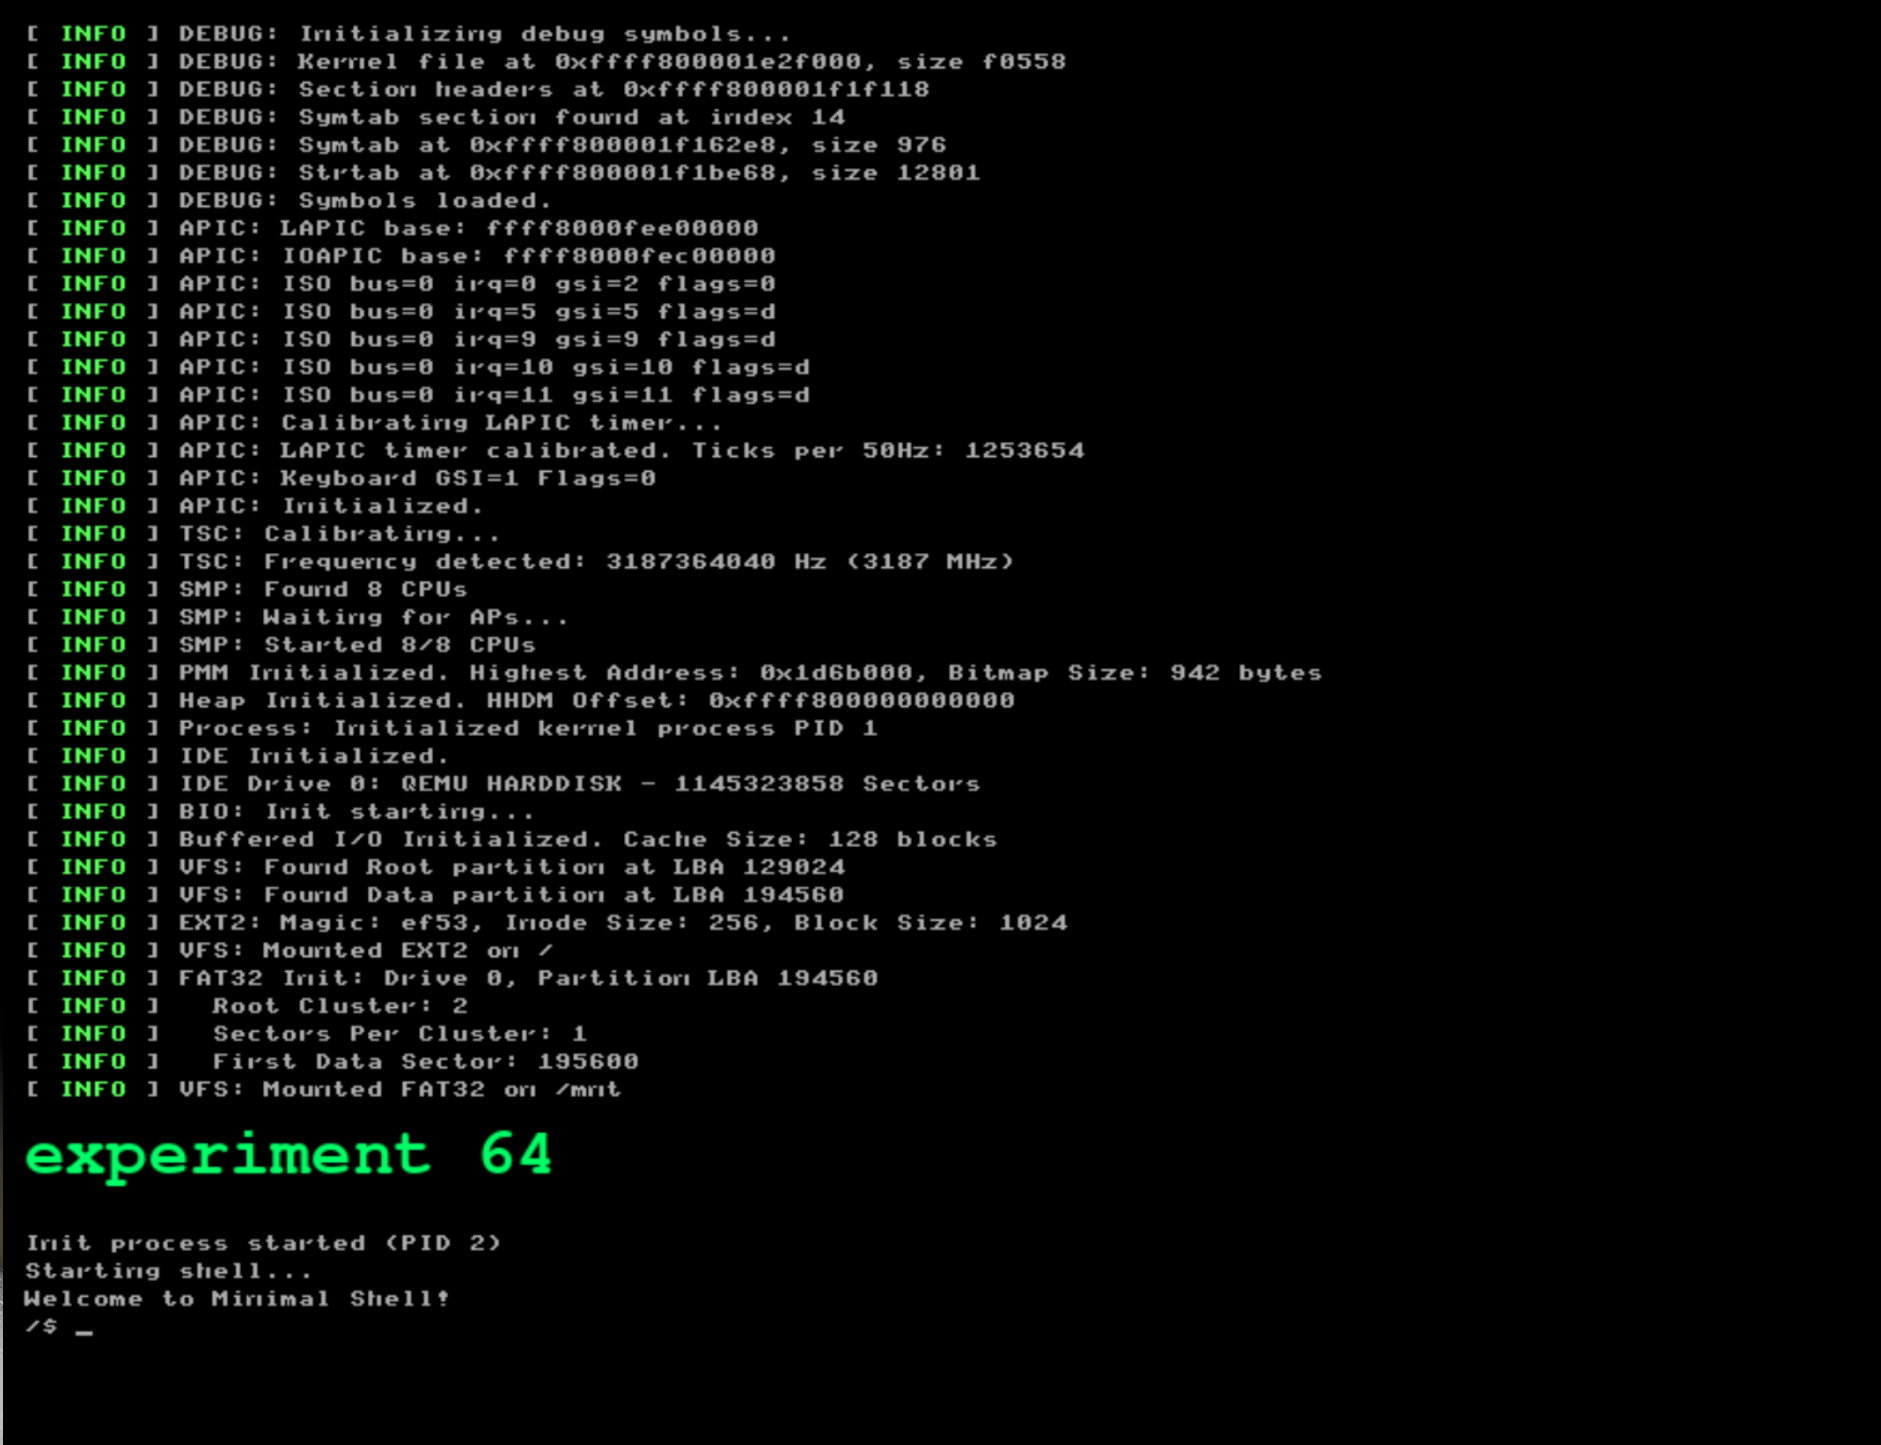
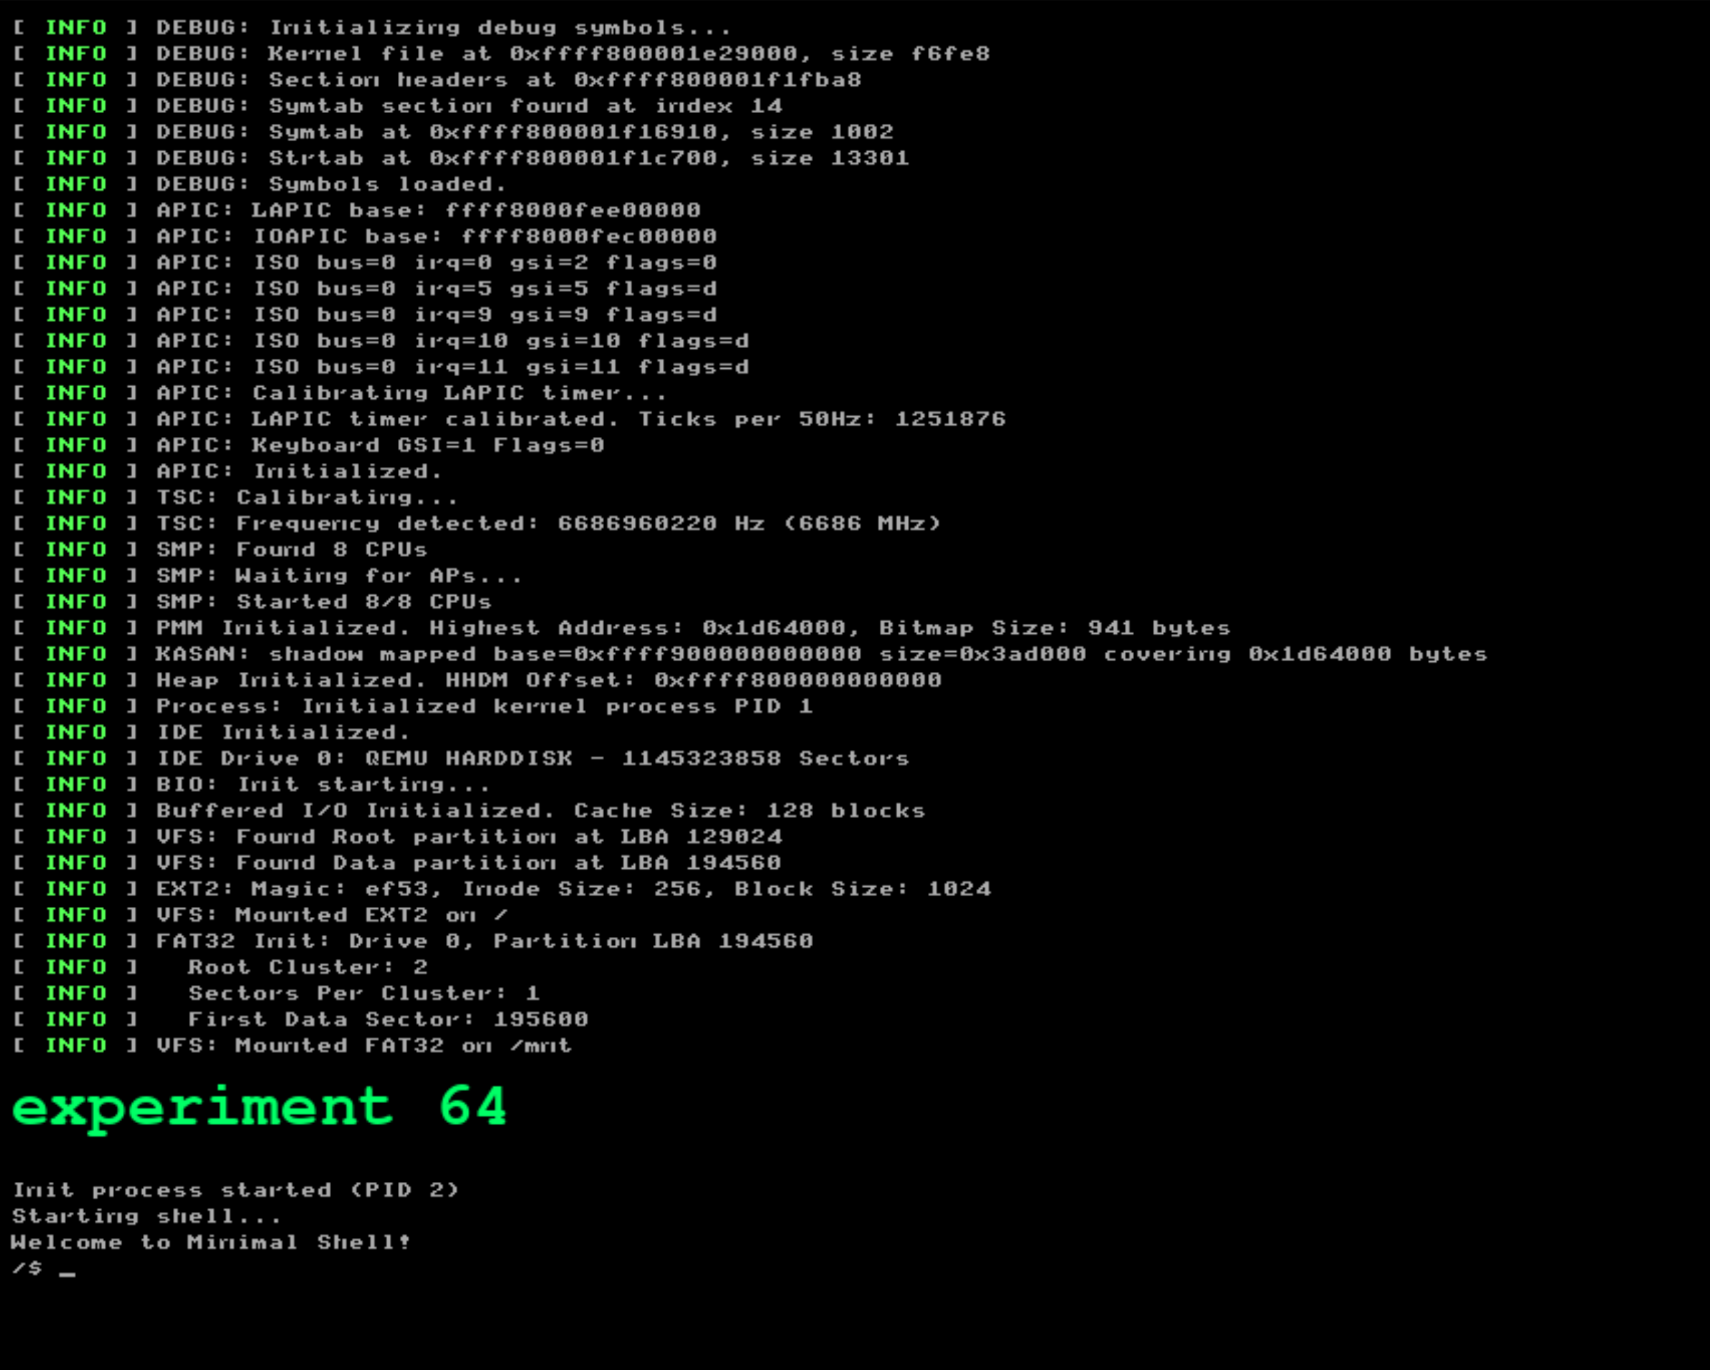
Enable KASAN support in Makefile and enhance user buffer handling in syscall.c

Changed region(s): [[0.0, 0.0, 0.8678, 0.8277], [0.0, 0.8584, 0.2789, 0.9504]]

diff --git a/kernel/arch/x86_64/syscall.c b/kernel/arch/x86_64/syscall.c
@@ -9,7 +9,11 @@
 #include "keyboard.h"
 #include "uart.h"
 #include <limits.h>
+#include <stdbool.h>
+#include <stdint.h>
 #include "kasan.h"
+#include "string.h"
+#include "heap.h"
 
 static int clamp_size_to_int(size_t value)
 {
@@ -24,9 +28,47 @@ static int clamp_u64_to_int(uint64_t value)
         return INT_MAX;
     return (int)value;
 }
-#include "string.h"
-#include "heap.h"
-#include <stdint.h>
+
+static bool prepare_user_buffer(void *addr, size_t size, bool is_write)
+{
+    (void)is_write;
+    if (!addr || size == 0)
+        return true;
+#ifdef KASAN
+    if (kasan_is_ready())
+    {
+        if (is_write)
+        {
+            kasan_unpoison_range(addr, size);
+        }
+        else if (!kasan_check_range(addr, size, false, __builtin_return_address(0)))
+        {
+            return false;
+        }
+    }
+#endif
+    return true;
+}
+
+static bool copy_to_user(void *dst, const void *src, size_t size)
+{
+    if (!dst || !src)
+        return false;
+    if (!prepare_user_buffer(dst, size, true))
+        return false;
+    memcpy(dst, src, size);
+    return true;
+}
+
+static bool __attribute__((unused)) copy_from_user(void *dst, const void *src, size_t size)
+{
+    if (!dst || !src)
+        return false;
+    if (!prepare_user_buffer((void *)src, size, false))
+        return false;
+    memcpy(dst, src, size);
+    return true;
+}
 
 #ifdef TEST_MODE
 volatile uint64_t test_syscall_count = 0;
@@ -237,6 +279,9 @@ void syscall_set_exit_hook(void (*hook)(int))
 
 int sys_write(int fd, const char *buf, size_t count)
 {
+    if (!prepare_user_buffer((void *)buf, count, false))
+        return -1;
+
     if (fd == 1 || fd == 2) // stdout or stderr
     {
         terminal_write(buf, count);
@@ -258,7 +303,7 @@ void sys_exit(int code)
     {
         exit_hook(code);
     }
-    printk("Process %d exited with code %d\n", current_process->pid, code);
+    // printk("Process %d exited with code %d\n", current_process->pid, code);
     current_process->exit_code = code;
     current_process->terminated = true;
     current_thread->state = THREAD_TERMINATED;
@@ -347,12 +392,12 @@ int sys_spawn(const char *path)
 
 int sys_fork(struct syscall_regs *regs)
 {
-    // 1. Copy Address Space
+    // Copy Address Space
     pml4_t child_pml4 = vmm_copy_pml4(current_process->pml4);
     if (!child_pml4)
         return -1;
 
-    // 2. Create Process
+    // Create Process
     process_t *child_proc = process_create(current_process->name);
     if (!child_proc)
         return -1;
@@ -362,12 +407,12 @@ int sys_fork(struct syscall_regs *regs)
 
     process_copy_fds(child_proc, current_process);
 
-    // 3. Create Thread
+    // Create Thread
     thread_t *child_thread = thread_create(child_proc, NULL, true);
     if (!child_thread)
         return -1;
 
-    // 4. Setup Child Stack
+    // Setup Child Stack
     // We need to place syscall_regs and a new context on the stack.
     // thread_create already put a context at the top, but we need to push regs first.
     // Stack Layout (High to Low):
@@ -397,7 +442,6 @@ int sys_fork(struct syscall_regs *regs)
     // The ret will pop rip (which is fork_return).
     // At that point rsp will be child_ctx + sizeof(context) == child_regs.
     // fork_return expects rsp to point to child_regs.
-    // Perfect.
 
     child_thread->context = child_ctx;
     cpu_t *cpu = get_cpu();
@@ -424,10 +468,10 @@ int sys_wait(int *status)
                 has_children = true;
                 if (p->terminated)
                 {
-                    if (status)
+                    if (status && (uint64_t)status < 0x800000000000)
                     {
-                        if ((uint64_t)status < 0x800000000000)
-                            *status = p->exit_code;
+                        int code = p->exit_code;
+                        copy_to_user(status, &code, sizeof(int));
                     }
                     int pid = p->pid;
 
@@ -631,6 +675,9 @@ uint64_t syscall_handler(uint64_t syscall_number, uint64_t arg1, uint64_t arg2, 
 
 int sys_read(int fd, char *buf, size_t count)
 {
+    if (!prepare_user_buffer(buf, count, true))
+        return -1;
+
     if (fd == 0)
     { // stdin
         size_t read = 0;
@@ -727,7 +774,11 @@ int sys_readdir(int fd, vfs_dirent_t *dent)
     if (!d)
         return 0; // End of directory
 
-    memcpy(dent, d, sizeof(vfs_dirent_t));
+    // Ensure the kernel buffer is marked accessible and copy out.
+#ifdef KASAN
+    kasan_unpoison_range(d, sizeof(vfs_dirent_t));
+#endif
+    copy_to_user(dent, d, sizeof(vfs_dirent_t));
     kfree(d);
     desc->offset++;
     return 1; // Success

diff --git a/user/shell.c b/user/shell.c
@@ -216,7 +216,7 @@ static int shell_run_command(const char *command)
 int main(void)
 {
     char buf[128];
-    printf("Welcome to Minimal Shell!\n");
+    printf("User mode shell started\n");
 
     while (1)
     {
